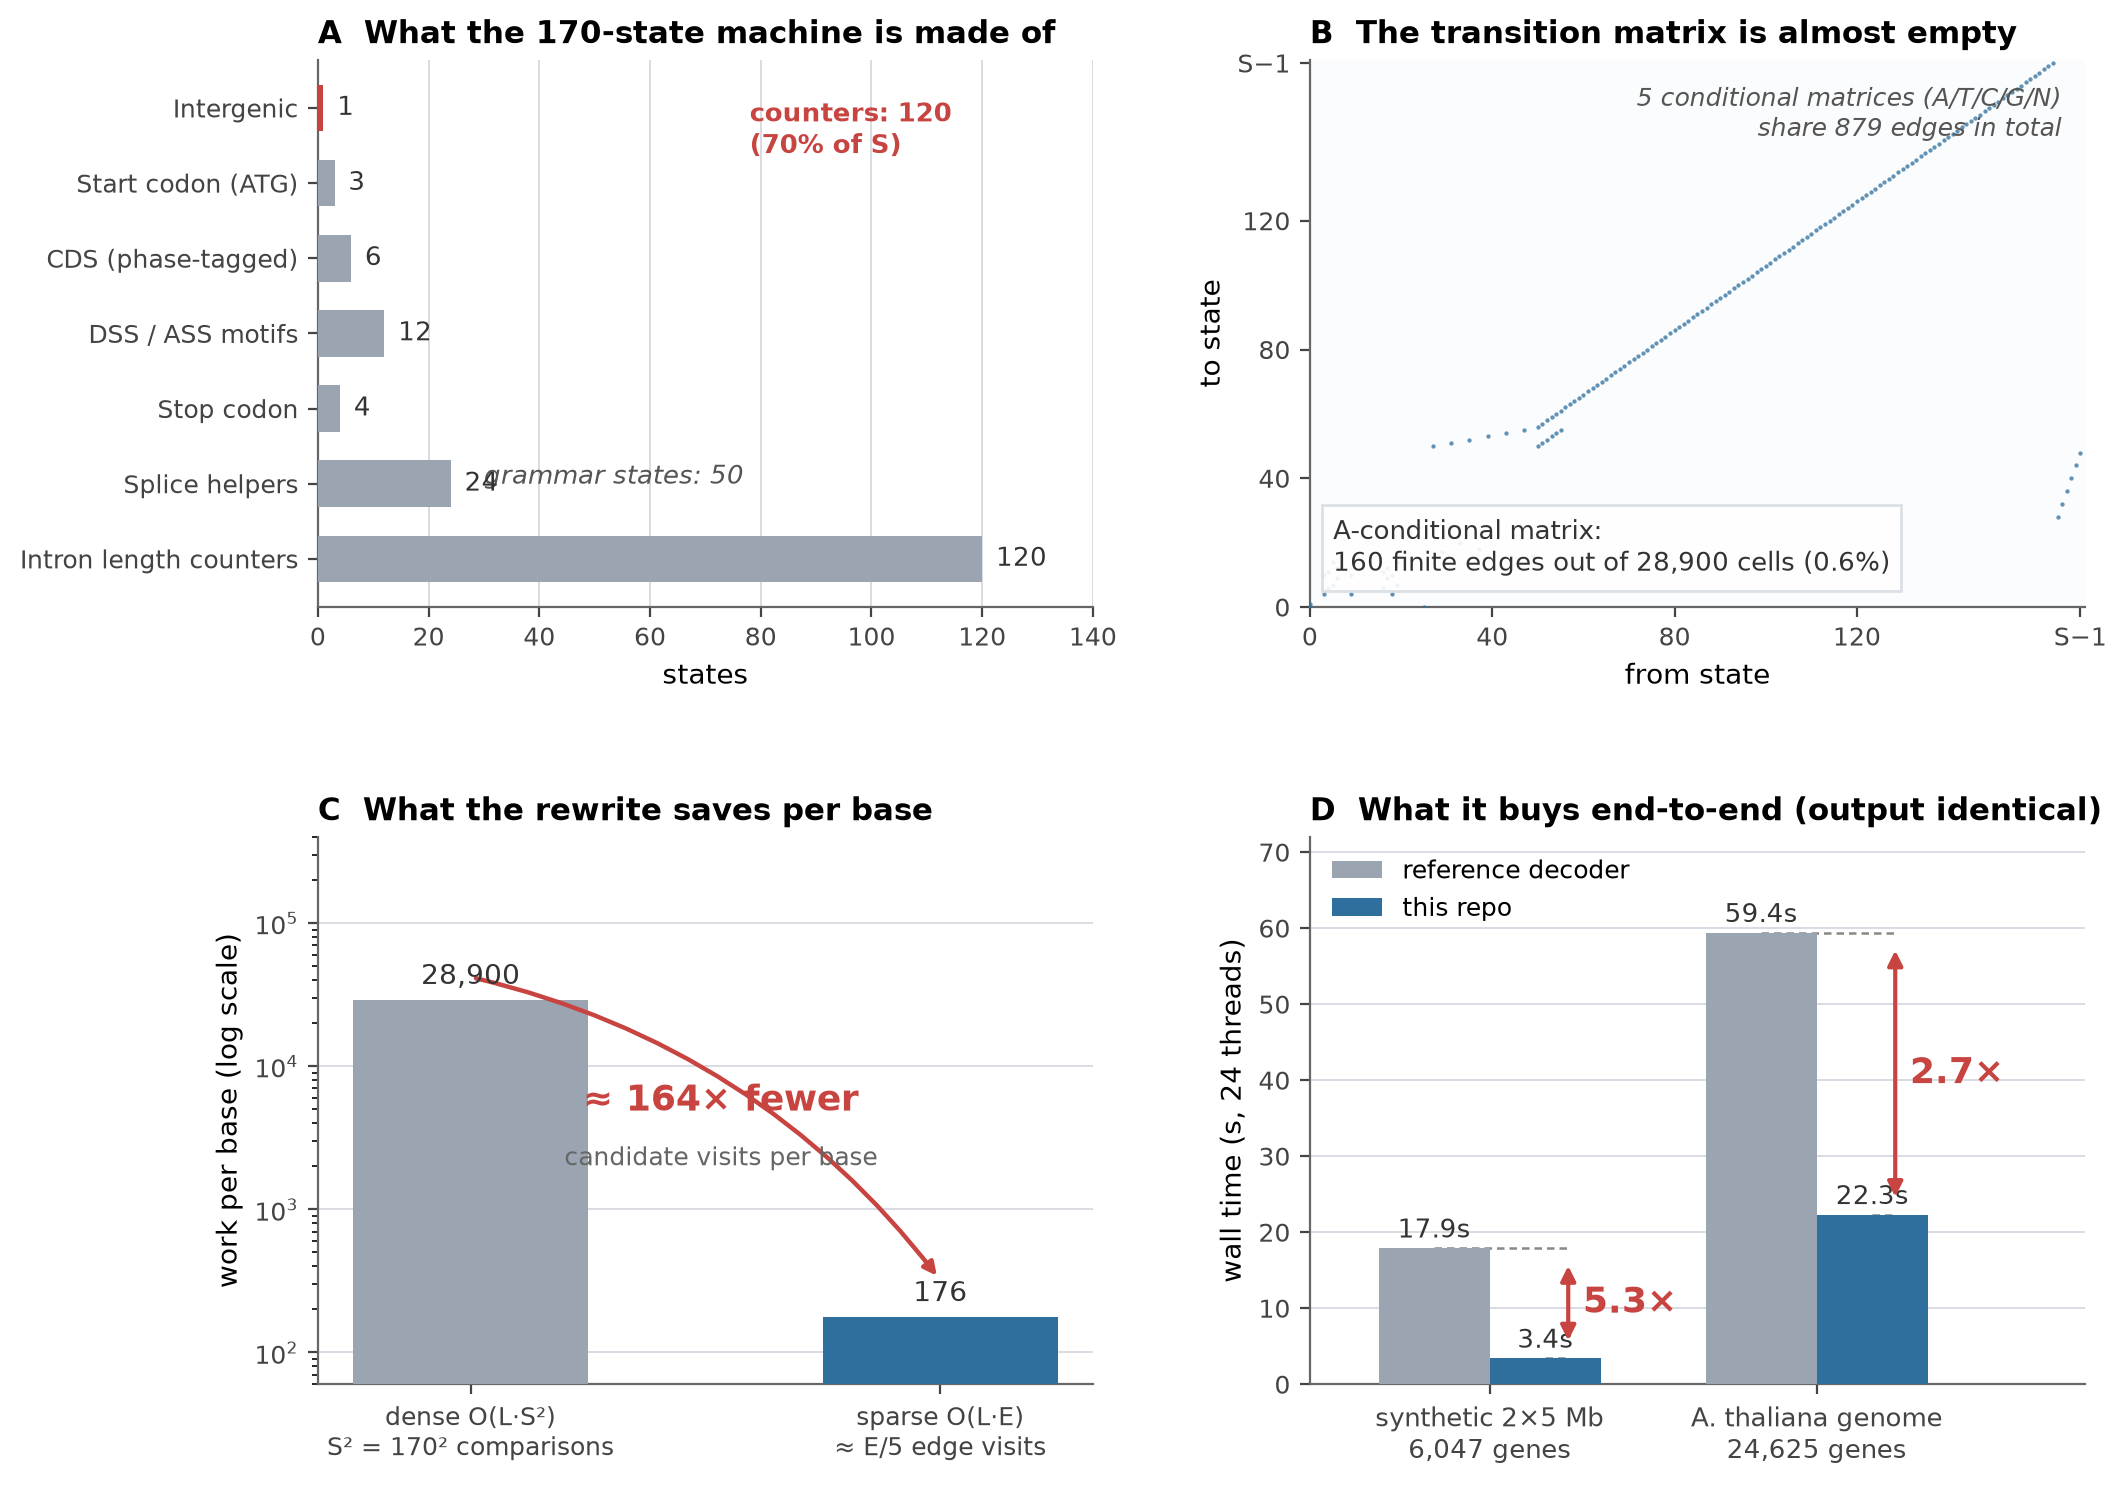
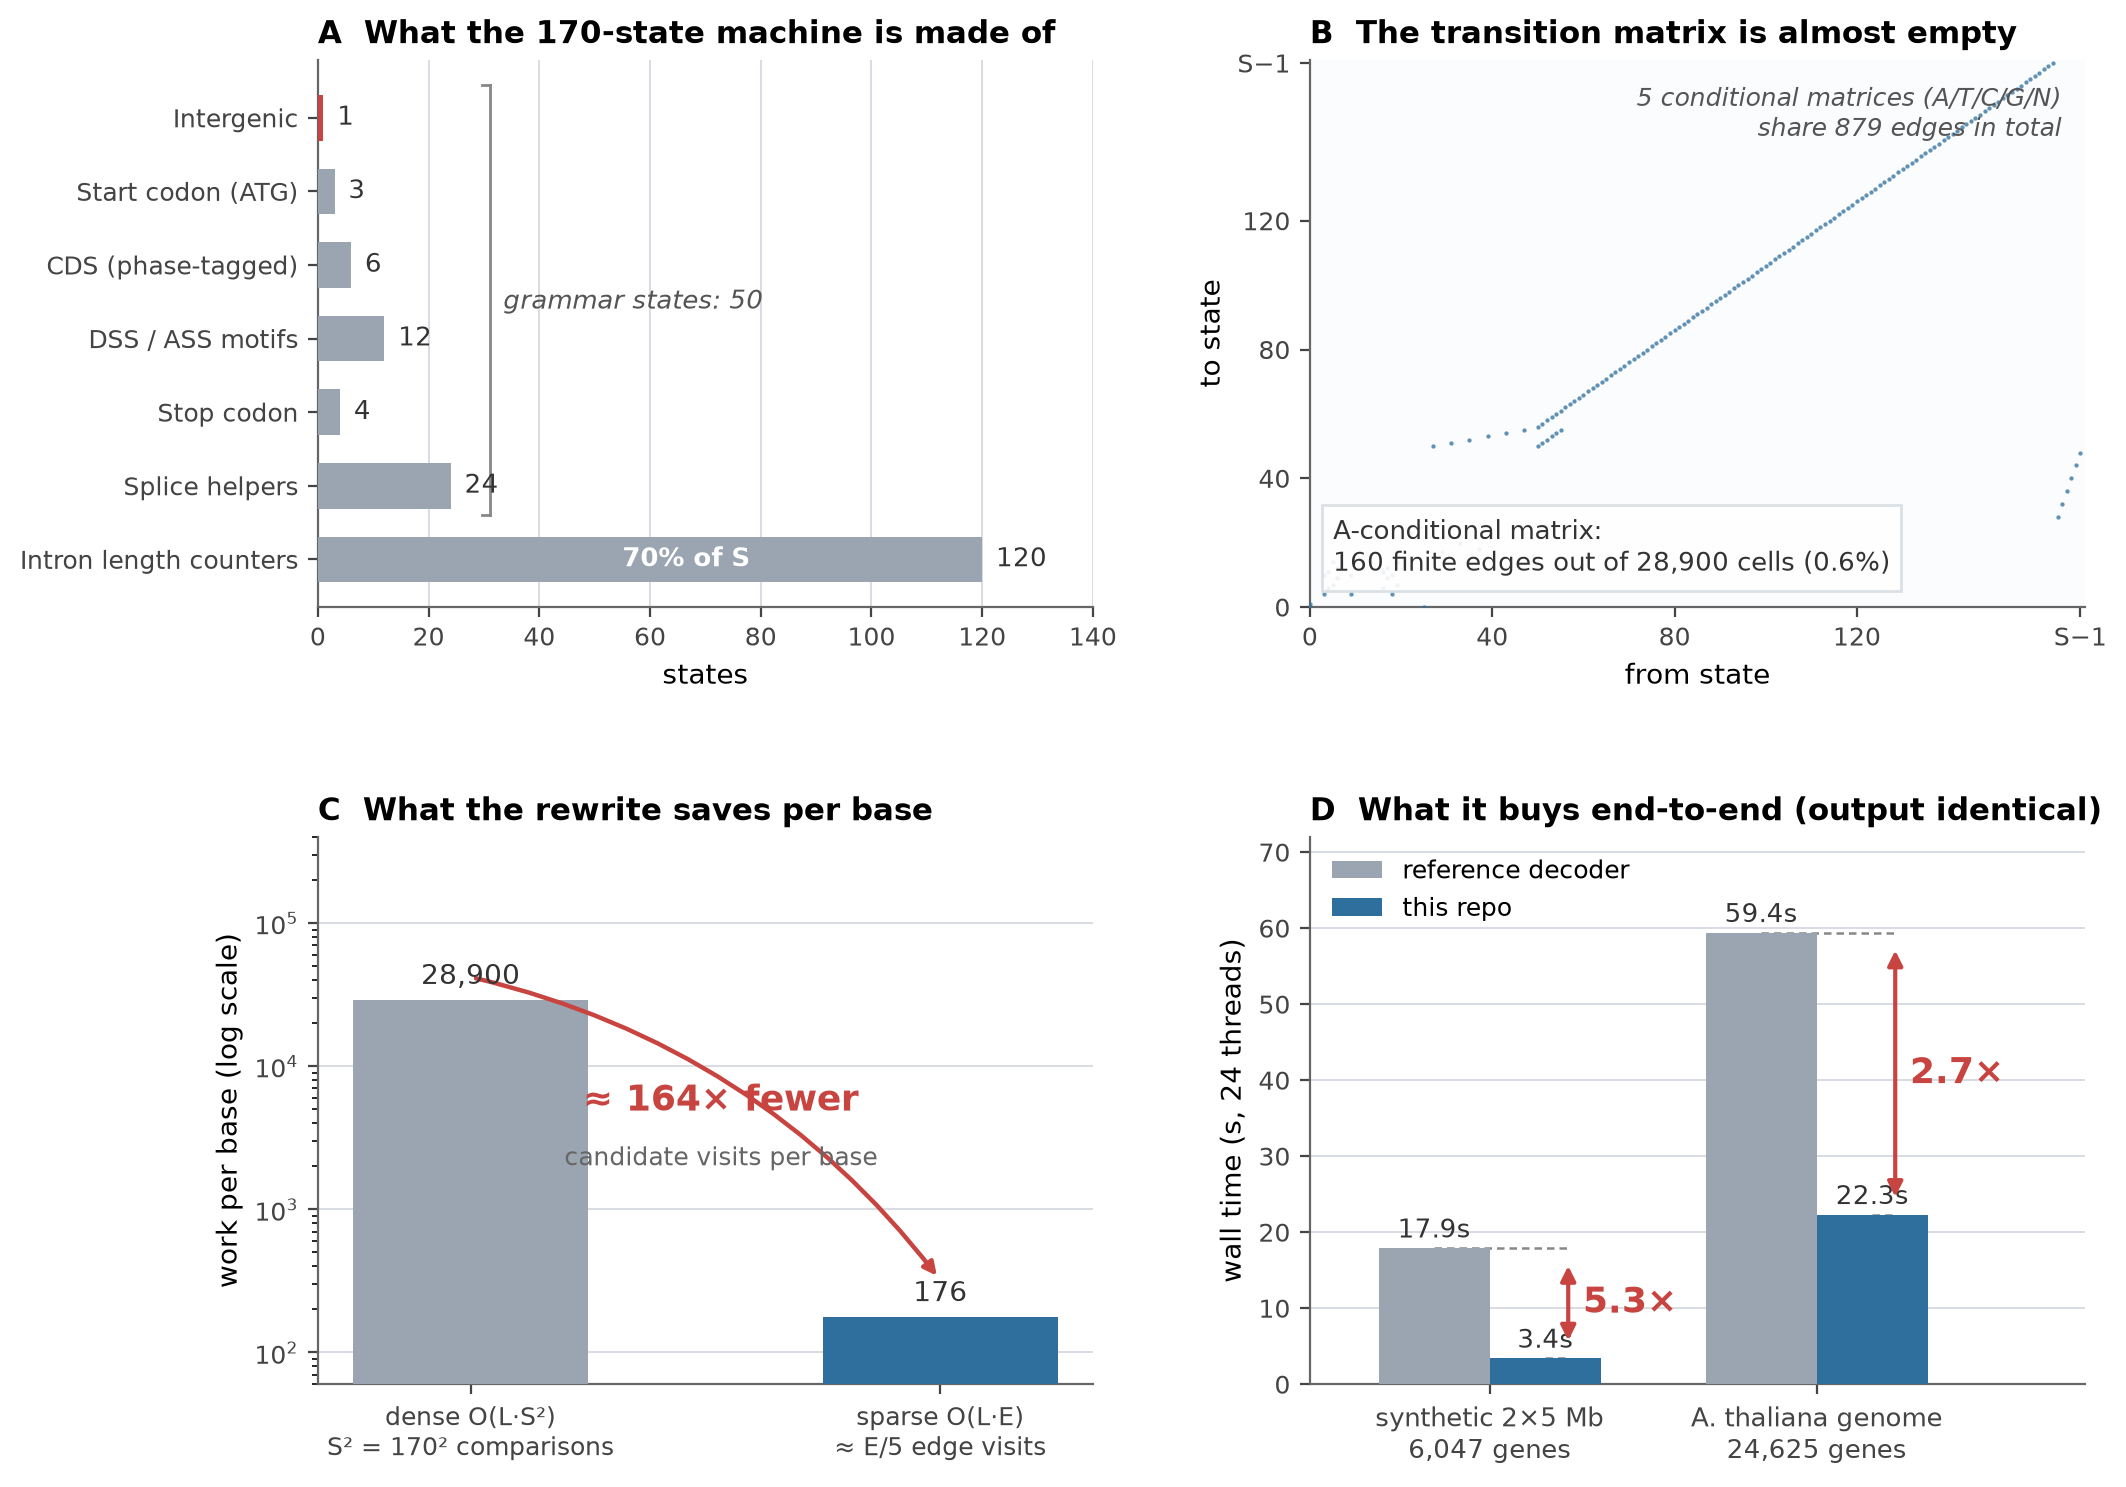
docs(figure): fix panel A annotations — bracket spanning the six grammar families + '70% of S' inside the counters bar, replacing floating misplaced labels

diff --git a/docs/assets/make_figures_zh.py b/docs/assets/make_figures_zh.py
@@ -75,9 +75,16 @@ bars = ax.barh(labels, vals, color=colors, height=0.62, zorder=3)
 for b, v in zip(bars, vals):
     ax.text(b.get_width() + 2.5, b.get_y() + b.get_height() / 2, str(v),
             va="center", fontsize=9.5, color="#333", zorder=4)
-ax.annotate("语法状态：50", xy=(30, 1.0), fontsize=9.5, color="#555", style="italic")
-ax.annotate("计数器：120\n（占 S 的 70%）", xy=(78, 5.4), fontsize=9.5,
-            color=C_HOT, fontweight="bold")
+# 括号标注上方六个语法家族（行 1–6）
+bx = 31
+ax.plot([bx, bx], [0.6, 6.45], color="#888", lw=1.0, zorder=2)
+ax.plot([bx - 1.4, bx], [6.45, 6.45], color="#888", lw=1.0, zorder=2)
+ax.plot([bx - 1.4, bx], [0.6, 0.6], color="#888", lw=1.0, zorder=2)
+ax.text(bx + 2.5, 3.5, "语法状态合计：50", fontsize=9.5, color="#555",
+        style="italic", va="center", zorder=4)
+# 计数器占比写进柱体内部
+ax.text(55, 0, "占 S 的 70%", fontsize=9.5, color="white", fontweight="bold",
+        va="center", zorder=4)
 ax.set_xlim(0, 140)
 ax.set_xlabel("状态数")
 ax.set_title("A  170 个状态由什么构成", loc="left", fontweight="bold")

diff --git a/docs/assets/make_figures.py b/docs/assets/make_figures.py
@@ -86,10 +86,16 @@ bars = ax.barh(labels, vals, color=colors, height=0.62, zorder=3)
 for b, v in zip(bars, vals):
     ax.text(b.get_width() + 2.5, b.get_y() + b.get_height() / 2, str(v),
             va="center", fontsize=9.5, color="#333", zorder=4)
-ax.annotate("grammar states: 50", xy=(30, 1.0), fontsize=9.5, color="#555",
-            style="italic")
-ax.annotate("counters: 120\n(70% of S)", xy=(78, 5.4), fontsize=9.5,
-            color=C_HOT, fontweight="bold")
+# 括号标注上方六个语法家族（行 1–6）
+bx = 31
+ax.plot([bx, bx], [0.6, 6.45], color="#888", lw=1.0, zorder=2)
+ax.plot([bx - 1.4, bx], [6.45, 6.45], color="#888", lw=1.0, zorder=2)
+ax.plot([bx - 1.4, bx], [0.6, 0.6], color="#888", lw=1.0, zorder=2)
+ax.text(bx + 2.5, 3.5, "grammar states: 50", fontsize=9.5, color="#555",
+        style="italic", va="center", zorder=4)
+# 计数器占比写进柱体内部
+ax.text(55, 0, "70% of S", fontsize=9.5, color="white", fontweight="bold",
+        va="center", zorder=4)
 ax.set_xlim(0, 140)
 ax.set_xlabel("states")
 ax.set_title("A  What the 170-state machine is made of", loc="left",
